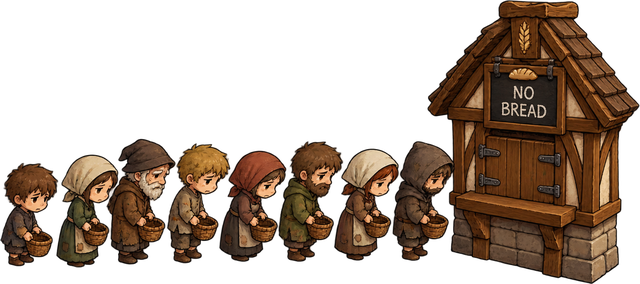
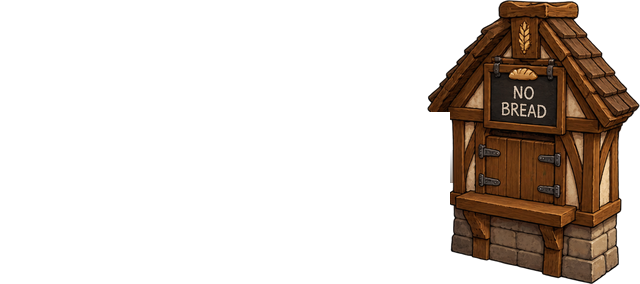
The bread queue and the street dancers are townsfolk now, and the loading screen is the storm-and-wave painting in 4K
- breadline.png keeps only the shuttered hatch and its NO BREAD board; five different townsfolk queue at it (eight when
  the granary is empty), facing the hatch and grumbling now and then
- music.png keeps only the hat and its coins; four different townsfolk dance round it, each turning, hopping and rocking
  in their own time, while the notes still rise
- the loading screen is the Steam page background, cut from its 5504x3072 master: 3840x2160 on every landscape shape,
  a 9:16 cut round the wave on portrait screens with the bar down on the rocks; no frame; status-bar tint #636a72
- the sign-in, the hero list and a new hero keep their tavern backdrop

Changed region(s): [[0.0, 0.4789, 0.7188, 0.9577], [0.6562, 0.3944, 0.7188, 0.4225]]

diff --git a/game.js b/game.js
@@ -50,7 +50,7 @@ const FG_ART={
 const fgArtFor=clsId=>{const a=FG_ART[clsId];return (a&&a.img.complete&&a.img.naturalWidth)?a:null;};
 /* 🏙 city art. CITY_HOUSES is indexed by a house's seed, so a terrace picks its faces
    deterministically and the same street looks the same every visit. */
-const CITY_ART_V=11; /* bump when a city asset is redrawn - the filenames stay put while the pictures
+const CITY_ART_V=12; /* bump when a city asset is redrawn - the filenames stay put while the pictures
                        behind them change, so without this a cached wall_gate_v.png survives a hard refresh */
 const cityImg=n=>{if(!cityImgs[n]){cityImgs[n]=new Image();cityImgs[n].src='assets/city/'+n+'.png?v='+CITY_ART_V;}return cityImgs[n];};
 const cityImgs={};
@@ -10144,6 +10144,10 @@ function update(dt){
    const crowd=world.npcs.filter(n=>n.protest),n=crowd[Math.floor(Math.random()*crowd.length)];
    if(n)floatAt(n.x,n.y-72,PROTEST_CHANTS[Math.floor(Math.random()*PROTEST_CHANTS.length)],'#ffb3a3',true);
   }
+  if(world.npcs&&chance(S.city&&S.city.food&&S.city.food.hunger>0?0.005:0.0025)){ /* 🍞 and the bread queue grumbles */
+   const line=world.npcs.filter(n=>n.queuer),n=line[Math.floor(Math.random()*line.length)];
+   if(n)floatAt(n.x,n.y-66,BREAD_MURMURS[Math.floor(Math.random()*BREAD_MURMURS.length)],'#f0d9a8',false);
+  }
   if(S.city&&S.city.incidents.length&&world.npcs&&chance(0.03)){ /* 🥊 and so does a brawl */
    const ring=world.npcs.filter(n=>n.brawl),n=ring[Math.floor(Math.random()*ring.length)];
    if(n)floatAt(n.x,n.y-58,BRAWL_SHOUTS[Math.floor(Math.random()*BRAWL_SHOUTS.length)],'#ffd0a0',Math.random()<.4);
@@ -12917,21 +12921,24 @@ function drawMercArms(n,body,by,now){   /* in the sellsword's own frame: the art
 }
 function drawNpc(n){
  const now=performance.now();
- const by=n.hop?-Math.abs(Math.sin(now/1000*n.hop.rate+n.hop.phase))*n.hop.h:n.moving?Math.sin(n.walk*7)*1.8:Math.sin(now/600+n.x)*0.8; /* 👑 hop: a townsman bouncing at the coronation */
+ const dz=n.dance,dt=dz&&now/1000*dz.rate+dz.phase;   /* 💃 dancing as the hero dances: a hop, a turn each way, a rock */
+ const fx=dz?(Math.sin(dt*3)>=0?1:-1):n.fx;
+ const by=dz?-Math.abs(Math.sin(dt*9))*6:n.hop?-Math.abs(Math.sin(now/1000*n.hop.rate+n.hop.phase))*n.hop.h:n.moving?Math.sin(n.walk*7)*1.8:Math.sin(now/600+n.x)*0.8; /* 👑 hop: a townsman bouncing at the coronation */
  ctx.save();ctx.translate(n.x,n.y);
  if(n.fade!=null)ctx.globalAlpha*=n.fade;   /* 🩹 a hurt guard fading out as he is helped away */
  const pImg=n.art||npcSkinImage(n.skin)||(n.female?npcFemaleImg:npcMaleImg); /* Sebbe's own art, a named skin, or the two originals */
  const body=characterBodyFrame(pImg,n.sit?36:44,n.sit?9:7),size=n.big||1;   /* 🪙 a sitter (the pardoned King) is drawn whole - feet in the art - and lower */
  const boots=characterBootFrame(npcSkinRace(n.skin),!!n.female,bootImg,7);
  ctx.save();ctx.scale(size,size);
+ if(dz)ctx.rotate(Math.sin(dt*6)*.25);
  if(n.hang){const top=body?body.headY-4:-40;ctx.translate(0,top);ctx.rotate(Math.sin(now/1000*1.6+n.hang)*.06);ctx.translate(0,-top);}   /* ⚖ swinging from the rope, about the head */
  ctx.fillStyle='rgba(0,0,0,0.25)';ctx.beginPath();ctx.ellipse(0,body?(n.sit?9:boots.groundY):8,n.sit?16:13,5.5,0,0,7);ctx.fill();
- if(!n.hang){const gy=body?(n.sit?9:boots.groundY):8,tall=n.sit?30:52;if(!(body&&!n.sit&&!n.down&&sunFigureShadow(pImg,body,gy,n.fx>0)))sunPersonShadow(gy,tall);lightPersonShadow(n.x,n.y,gy,tall*size,size);}   /* ☀🏮 their own shape */
- if(n.down){const gy=body?boots.groundY:8;ctx.translate(0,gy);ctx.rotate((n.fx>0?-1:1)*1.45*n.down);ctx.translate(0,-gy);}   /* 🩹 knocked down by the Forsaken: laid out on the stones, about his feet */
+ if(!n.hang){const gy=body?(n.sit?9:boots.groundY):8,tall=n.sit?30:52;if(!(body&&!n.sit&&!n.down&&sunFigureShadow(pImg,body,gy,fx>0)))sunPersonShadow(gy,tall);lightPersonShadow(n.x,n.y,gy,tall*size,size);}   /* ☀🏮 their own shape */
+ if(n.down){const gy=body?boots.groundY:8;ctx.translate(0,gy);ctx.rotate((fx>0?-1:1)*1.45*n.down);ctx.translate(0,-gy);}   /* 🩹 knocked down by the Forsaken: laid out on the stones, about his feet */
  if(body){
   if(!n.sit)bootFeet({...boots,moving:n.moving,walk:n.walk*1.8,bob:by});
   ctx.save();
-  if(n.fx>0)ctx.scale(-1,1); /* art faces left natively - mirror when walking right */
+  if(fx>0)ctx.scale(-1,1); /* art faces left natively - mirror when walking right */
   ctx.rotate(by*0.02);
   const part=!n.art&&npcPart(n.skin);
   if(part){
@@ -12951,7 +12958,7 @@ function drawNpc(n){
  ctx.restore();
  if(n.hurtMark){const hy=((body?body.headY:-37)-12+by)*size;ctx.fillStyle='rgba(255,255,255,.92)';ctx.fillRect(-7,hy-7,14,14);ctx.fillStyle='#d83a32';ctx.fillRect(-2,hy-5.5,4,11);ctx.fillRect(-5.5,hy-2,11,4);}   /* 🩹 hurt, off to be patched up */
  if(n.protest&&n.protest.sign)drawProtestSign(n,body,by,size);
- if(n.guildRole!=='member'&&!n.protest&&!n.brawl&&!n.prisoner&&!n.held&&!n.feaster&&!(n.nameNear&&(!hero||Math.hypot(hero.x-n.x,hero.y-n.y)>n.nameNear))){   /* ⚔ a sellsword's name only when you are close */ /* ✊ a marching block wears its placards, not two dozen overlapping names; ⛓ a prisoner's name hangs on his grille */
+ if(n.guildRole!=='member'&&!n.protest&&!n.brawl&&!n.prisoner&&!n.held&&!n.feaster&&!n.queuer&&!n.dancer&&!(n.nameNear&&(!hero||Math.hypot(hero.x-n.x,hero.y-n.y)>n.nameNear))){   /* ⚔ a sellsword's name only when you are close */ /* ✊ a marching block wears its placards, not two dozen overlapping names; ⛓ a prisoner's name hangs on his grille */
   const ny=((body?body.headY:-37)-3+by-(body&&MERC_ARMED.has(n.skin)?17:0)-(n.nameLift||0))*size;   /* ⚔ over a sellsword's pike blade, not through it; 🍺 a line up when a neighbour's name is in the way */
   ctx.font='700 '+(n.game?11:10)+'px '+getComputedStyle(document.body).fontFamily;ctx.textAlign='center';
   ctx.fillStyle='rgba(0,0,0,0.6)';ctx.fillText(n.name,1,ny+1);
@@ -18539,7 +18546,7 @@ function cityHudLine(){
   +(c.food.hunger>0?' · 🌾 THE CITY IS HUNGRY':CityEconomy.foodView(c,cityContext()).low?' · 🌾 bread for '+(n=>n+' more close'+(n===1?'':'s'))(CityEconomy.foodView(c,cityContext()).closes):'')+(c.unattended>=CityEconomy.REMIND_AFTER?' · 🔔 you have ledgers to attend':'')+(trouble.length?' · '+trouble.join(' · '):'')+(c.petition?' · 📜 a petition waits at the council table':'')+(c.king.demand?' · 👑 the King wants something':'')+' · the ledger closes in '+cityClockLeft();
 }
 /* a commoner who can be pulled off his stroll for a march or a fight, and put back afterwards */
-const cityCommoner=n=>!n.patrol&&!n.game&&!n.hidden&&!n.feaster&&!/^noble_/.test(n.skin||'');
+const cityCommoner=n=>!n.patrol&&!n.game&&!n.hidden&&!n.feaster&&!n.queuer&&!n.dancer&&!/^noble_/.test(n.skin||'');
 function citySendHome(n){
  n.pts=n.homePts||n.pts;n.i=Math.min(n.homeI||0,n.pts.length-1);n.protest=null;n.brawl=null;
  n.x=n.pts[n.i].x;n.y=n.pts[n.i].y;n.pauseT=Math.random()*2;n.moving=false;
@@ -18622,7 +18629,7 @@ const VELVET_GIRLS=[['Scarlett','courtesan_blonde'],['Vivienne','courtesan_dark'
 function cityApplyPeople(){
  if(!world||!zoneOf().city||!world.npcs||!S.city)return;
  const c=S.city,jailed=new Set(c.jail.map(p=>p.name));
- const folk=world.npcs.filter(n=>!n.patrol&&!n.game&&!n.newcomer&&!n.recruit&&!n.velvet&&!n.feaster);
+ const folk=world.npcs.filter(n=>!n.patrol&&!n.game&&!n.newcomer&&!n.recruit&&!n.velvet&&!n.feaster&&!n.queuer&&!n.dancer);
  const crowd=Math.max(4,Math.round(c.pop*folk.length/CityEconomy.POPULATION));   /* one walker for every five souls or so: nobody draws five thousand */
  const gone=Math.max(0,folk.length-crowd);
  folk.forEach((n,i)=>{n.hidden=i>=folk.length-gone||jailed.has(n.name);});
@@ -18696,7 +18703,7 @@ function cityApplyWorks(){
   const def=CityEconomy.WORKS.find(w=>w.id===a.id);
   a.house.work={id:a.id,status:a.status,left:a.left,sign:def.sign,icon:def.icon,cat:def.cat};
  }
- cityApplyFeast();
+ cityApplyFeast();cityApplyBreadline();cityApplyDancers();
 }
 /* 🍖 A feast on the great square (2026-09-29): the long table is laid with food and nobody painted at it; the townsfolk
    stand round it, five a side facing the table, hopping for joy each in their own time. They come and go with the tables
@@ -18714,6 +18721,44 @@ function cityApplyFeast(){
     race:costume?costume[1]:'human',cls:costume?costume[3]:'warrior',female:npcSkinFemale(skin),pts:[{x,y}],i:0,dir:1,x,y,speed:0,walk:n*.7,
     fx:-side,pauseT:1e9,moving:false,feaster:true,hop:{h:7+(n%3)*3,rate:4.1+(n%4)*.55,phase:n*1.7}});
   }
+ });
+}
+/* 🍞 The bread queue (2026-10-13: "ta bort människorna i den bilden ha kvar no bread, och lägg till så det är NPC olika istället i
+   kön"): the painting is the bakers' hatch alone, NO BREAD on its board; the queue at it is townsfolk, no two dressed alike, in
+   line toward the hatch where the painted one stood - five while bread is short, eight once the granary is empty - each
+   shifting on their feet in their own time, and now and then one of them grumbles (BREAD_MURMURS). 🎻 The street music
+   (2026-10-13: "gör så det är NPC som står och dansar i stället"): the painted band is gone - the hat for coins stays and the
+   notes still rise over it - and four townsfolk dance round it, as the hero dances. Like the feasters they are not the walking
+   townsfolk: nobody counts them, marches them off or jails them, and they come and go with their props. */
+const QUEUE_SKINS=['market_woman','male','dockhand','fishwife','monk','female','foundry_worker','sailor','blacksmith','merchant'];
+const DANCE_SKINS=['female','sailor','baker','male','market_woman','merchant','fishwife','dockhand'];
+const BREAD_MURMURS=['Any bread today?','Since before dawn...','My children are hungry.','Open the hatch!','Not a crust left?','They say the granary is empty.','Bread!'];
+const QUEUE_STEP=27,QUEUE_HEAD=50,QUEUE_DY=-12;   /* the first at the hatch's counter, the rest behind at this spacing; feet a little behind the booth's front */
+const DANCE_SPOTS=[[-58,-2],[-22,-15],[22,-15],[58,-2]];   /* round the hat and a little behind it, where the band stood */
+function streetFolk(skin,n,x,y,extra){   /* one of the standing townsfolk the square's props bring */
+ const costume=npcSkinCostume(skin);
+ return {name:NEWCOMER_FIRST[(n*5+3)%NEWCOMER_FIRST.length]+' '+NEWCOMER_LAST[(n*11+1)%NEWCOMER_LAST.length],skin,
+  race:costume?costume[1]:'human',cls:costume?costume[3]:'warrior',female:npcSkinFemale(skin),pts:[{x,y}],i:0,dir:1,x,y,speed:0,walk:n*.7,
+  pauseT:1e9,moving:false,...extra};
+}
+function cityApplyBreadline(){
+ if(!world||!world.npcs)return;
+ world.npcs=world.npcs.filter(n=>!n.queuer);
+ (world.solids||[]).filter(s2=>s2.type==='citywork'&&s2.kind==='breadline').forEach((b,bi)=>{
+  const many=b.long?8:5,first=((b.seed|0)+bi*3)%QUEUE_SKINS.length;
+  for(let k=0;k<many;k++){
+   const x=b.x+QUEUE_HEAD-k*QUEUE_STEP+((k*7)%5-2),y=b.y+QUEUE_DY+((k*3)%4-1.5);   /* a queue, not a parade: never quite in line */
+   world.npcs.push(streetFolk(QUEUE_SKINS[(first+k)%QUEUE_SKINS.length],bi*10+k+40,x,y,{fx:1,queuer:true}));   /* facing the hatch */
+  }
+ });
+}
+function cityApplyDancers(){
+ if(!world||!world.npcs)return;
+ world.npcs=world.npcs.filter(n=>!n.dancer);
+ (world.solids||[]).filter(s2=>s2.type==='citywork'&&s2.kind==='music').forEach((m,mi)=>{
+  const first=((m.seed|0)+mi*2)%DANCE_SKINS.length;
+  DANCE_SPOTS.forEach(([dx,dy],k)=>world.npcs.push(streetFolk(DANCE_SKINS[(first+k)%DANCE_SKINS.length],mi*10+k+70,m.x+dx,m.y+dy,
+   {fx:dx<0?1:-1,dancer:true,dance:{rate:.86+((k*37+mi*11)%29)/100,phase:k*1.9+mi}})));   /* each in their own time */
  });
 }
 /* 📣 The crier shouts what the last close wrote, and what a steward should know, a line at a time */
@@ -22598,7 +22643,7 @@ const BOOT_MIN=5000,BOOT_MAX=13000;
    outside the page so no background image can reach them. Keep the tint matched to the
    top edge of whatever artwork is on screen (values sampled from the images) so the
    clock and battery read as sitting on the same backdrop. */
-const THEME_BOOT='#1a1007',THEME_MENU='#401a11',THEME_GAME='#342011';   /* boot: the dark bronze around the tall riptide art */
+const THEME_BOOT='#636a72',THEME_MENU='#401a11',THEME_GAME='#342011';   /* boot: the storm clouds along the top of the wave picture */
 /* Installed on the home screen the page owns the whole screen, status bar included, and the
    artwork is what should show there. A theme-color - from this meta OR from the manifest -
    makes iOS paint a solid band over it instead, so drop the meta entirely in that mode. */
@@ -22623,13 +22668,7 @@ function bootPreload(){
  /* UI frames and the login art */
  /* only the variant this screen shows - the same URLs and media queries as the #boot rules in style.css */
  const mq=q=>matchMedia(q).matches;
- if(mq('(max-aspect-ratio:51/100)'))push('assets/ui/loading_phone_tall.jpg?v=3');
- else if(mq('(max-aspect-ratio:1/1)'))push('assets/ui/loading_phone.jpg?v=4');
- else if(mq('(max-aspect-ratio:87/50)')||mq('(min-aspect-ratio:91/50)')){   /* not 16:9: wider/taller art + the frame on top */
-  push(mq('(max-aspect-ratio:87/50)')?'assets/ui/loading_desktop_tall.jpg?v=2':
-   mq('(min-aspect-ratio:49/20)')?'assets/ui/loading_desktop_ultra.jpg?v=2':'assets/ui/loading_desktop_wide.jpg?v=2');
-  ['loading_frame','loading_medallion_top','loading_medallion_bottom'].forEach(n=>push('assets/ui/'+n+'.png?v=1'));
- }else push('assets/ui/loading_desktop.jpg?v=4');
+ push(mq('(max-aspect-ratio:1/1)')?'assets/ui/loading_tide_phone.jpg?v=1':'assets/ui/loading_tide.jpg?v=1');   /* 🌊 the cut for portrait screens, else the 4K picture */
  ['bakground_signin','ui_background','ui_allt','ui_ram','ui_buttons','ui_buttonrak','ui_buttonsstone','ui_buttonshardcore']
   .forEach(n=>push('assets/ui/'+n+'.png'));
  /* painted icons - spells, potions, loot */

diff --git a/style.css b/style.css
@@ -946,12 +946,14 @@
 .gvbbigcard .gl{font-size:10px;font-weight:800}
 .gvbbigmark{position:absolute;left:50%;top:0;bottom:0;width:2px;background:#ffd76a;box-shadow:0 0 10px #ffd76a}
 /* ⏳ boot screen - holds the door shut until the art is in memory */
-/* the framed painting is the whole composition, so it is never cropped: a 16:9 screen (within 2%) gets the painting
-   itself edge to edge, every other landscape shape the rules after .boottip, portrait phones the tall one */
+/* 🌊 the storm-and-wave painting (2026-10-13, the Steam page background's own 4K master: "byta ut loading screenen till
+   denna bild ... gör den till 4k"). It has no frame and no crest to keep whole, so every landscape shape simply covers
+   itself with it - a little off the sides on 16:10 and 4:3, off the sky and the rocks on ultrawides. Portrait screens
+   get their own 9:16 cut round the wave's curl. bootPreload() in game.js loads the one this screen shows (same query). */
 #boot{position:fixed;inset:0;z-index:9999;display:flex;align-items:center;justify-content:center;
-  background:url('assets/ui/loading_desktop.jpg?v=4') center/100% 100% no-repeat #0b0906;transition:opacity .5s ease}
+  background:url('assets/ui/loading_tide.jpg?v=1') center/cover no-repeat #545e67;transition:opacity .5s ease}
 #boot.gone{opacity:0;pointer-events:none}
-.bootinner{position:relative;text-align:center;width:min(60%,430px);margin-top:42vh} /* well below the crest, low on the parchment */
+.bootinner{position:relative;text-align:center;width:min(60%,430px);margin-top:42vh} /* low, on the misty sea */
 .bootbar{height:13px;border-radius:8px;border:1px solid #1f4a78;background:rgba(10,28,52,.6);overflow:hidden;
   box-shadow:inset 0 1px 4px rgba(0,0,0,.5),0 1px 0 rgba(190,225,255,.22)}
 .bootbar i{display:block;height:100%;width:0%;border-radius:7px;   /* blue, to match the riptide art (2026-10-02) */
@@ -959,53 +961,16 @@
   box-shadow:0 0 10px rgba(70,150,255,.65);transition:width .25s ease}
 .boottip{margin-top:11px;font-family:var(--display);font-size:14px;color:#fff;
   text-shadow:0 0 8px #000,0 0 3px #000,0 2px 4px rgba(0,0,0,.9);min-height:1.3em;letter-spacing:.4px}
-/* 💻 desktops that are not 16:9 (16:10, 3:2, 4:3, ultrawide, a window, a browser tab): the same painting without its
-   frame, painted out wider (21:9, 4:1) or taller (4:3) and laid so the 16:9 picture always shows whole and centred; the
-   frame is drawn on top at the screen's own edges - corners fixed, rune bands tiled - with the two medallions centred.
-   U = the 16:9 picture's height on screen = min(100vh,56.25vw); the frame art is 4K-sized, so U = 2160 of its px.
-   bootPreload() in game.js uses the same queries. */
-@media (min-aspect-ratio:1001/1000) and (max-aspect-ratio:87/50),(min-aspect-ratio:91/50){
-  #boot{border:0 solid transparent;
-    border-image:url('assets/ui/loading_frame.png?v=1') 360/calc(min(100vh,56.25vw)*.16667) round}
-  #boot::before,#boot::after{content:'';position:absolute;left:50%;transform:translateX(-50%);pointer-events:none;
-    width:calc(min(100vh,56.25vw)*.2037);height:calc(min(100vh,56.25vw)*.06204);background:center/100% 100% no-repeat}
-  #boot::before{top:0;background-image:url('assets/ui/loading_medallion_top.png?v=1')}
-  #boot::after{bottom:0;background-image:url('assets/ui/loading_medallion_bottom.png?v=1')}
-}
-@media (min-aspect-ratio:1001/1000) and (max-aspect-ratio:87/50){
-  #boot{background:url('assets/ui/loading_desktop_tall.jpg?v=2') center/max(100vw,133.334vh) auto no-repeat #0b0906}
-  .bootinner{margin-top:min(42vh,23.625vw)}
-}
-@media (min-aspect-ratio:91/50){
-  #boot{background:url('assets/ui/loading_desktop_wide.jpg?v=2') center/auto max(100vh,42.857vw) no-repeat #0b0906}
-}
-@media (min-aspect-ratio:49/20){   /* past 21:9 (browser tabs on ultrawides, 32:9): the 4:1 painting */
-  #boot{background:url('assets/ui/loading_desktop_ultra.jpg?v=2') center/auto max(100vh,25vw) no-repeat #0b0906}
-}
-/* 📱 portrait: the riptide art painted tall (9:16, 2026-10-02; black-and-parchment since 2026-10-07). On phones it reaches the glass at every edge (the two
-   rules after this block); tablets still see it whole on the frame's dark bronze. The bar rides the calm sea at 63%.
+/* 📱 portrait: the 9:16 cut round the wave, edge to edge, the bar down on the rocks (~83%) so the curl stays clear.
    100dvh keeps the boot screen covering the glass while iOS Safari's chrome slides in and out */
 @media (max-aspect-ratio:1/1){
-  #boot{background-image:url('assets/ui/loading_phone.jpg?v=4');background-color:#1a1007;align-items:center;padding-bottom:0;
-    height:100dvh;background-size:contain;background-position:center}
-  .bootinner{margin-top:calc(26vh + 29px);margin-top:calc(26dvh + 29px);width:min(82%,420px)}
+  #boot{background-image:url('assets/ui/loading_tide_phone.jpg?v=1');background-color:#636a72;padding-bottom:0;height:100dvh}
+  .bootinner{margin-top:calc(68vh + 29px);margin-top:calc(68dvh + 29px);width:min(82%,420px)}
   /* same trick for the tavern art behind login / select / create */
   html:has(#login.open),html:has(#select.open),html:has(#create.open),
   body:has(#login.open),body:has(#select.open),body:has(#create.open),
   body:has(#login.open) #app,body:has(#select.open) #app,body:has(#create.open) #app,
   #select,#login,#create{background-size:auto 112%;background-position:center bottom}
-}
-/* phones in a browser tab: the 9:16 art stretched to the glass - a few % in most browsers, ~18% on the smallest iPhones */
-@media (max-aspect-ratio:65/100),(max-width:540px) and (max-aspect-ratio:1/1){
-  #boot{background-size:100% 100%}
-}
-/* installed and tall phones: the same painting with 692 more rows of its own open sea, laid as three slices - the top
-   1592 rows and the bottom 990 keep their shape at 100vw (rows/1520), only the open sea between them flexes to the
-   height, so nothing is cropped or squashed. The bar sits mid-sea. bootPreload() in game.js uses the same query. */
-@media (max-aspect-ratio:51/100){
-  #boot{background:#9a7758;border:0 solid transparent;
-    border-image:url('assets/ui/loading_phone_tall.jpg?v=3') 1592 0 990 0 fill/104.7368vw 0 65.1316vw 0 stretch}
-  .bootinner{margin-top:39.6vw}
 }
 /* ❄ Ice Armor talent tree */
 .talentbox{background:linear-gradient(180deg,#101a2a,#080d16);border:2px solid #5b9bd5;border-radius:18px;padding:20px 24px 18px;max-width:560px;width:94%;max-height:94%;overflow-y:auto;text-align:center;box-shadow:0 14px 50px rgba(0,0,0,.7),0 0 30px rgba(91,155,213,.22)}

diff --git a/assets/city/city-works.js b/assets/city/city-works.js
@@ -195,11 +195,7 @@
   for(let i=0;i<n;i++)if(Math.sin(ring(i).a)>=0){ribbon(i);dancer(i);}
  }
  function music(g,s,time){
-  const bow=Math.sin(time*6)*5,beat=Math.abs(Math.sin(time*4));
-  fig(g,-16,0,{coat:'#6a3f86',hat:'#2b2622'});rect(g,-13,-31,14,5,'#8a5a2b','#2a1a0c',1);        /* the fiddle, and the bow across it */
-  g.save();g.strokeStyle='#f0e2c4';g.lineWidth=1.4;g.beginPath();g.moveTo(-14+bow,-36);g.lineTo(2+bow,-24);g.stroke();g.restore();
-  fig(g,18,2,{coat:'#3f7d48',arm:.4+beat*.9});ellipse(g,27,-16,9,5,'#e9dcb8','#4a2d17',1.5);rect(g,18,-16,18,12,'#a8322f','#2a1a0c',1);
-  fig(g,50,-4,{coat:'#b9822a',sit:true});rect(g,55,-40,3,22,'#5a3a1e');                            /* and a piper on a stool */
+  /* the hat for coins and the tune in the air - the dancers round it are townsfolk (game.js cityApplyDancers, 2026-10-13) */
   for(let i=0;i<3;i++){const p=(time*.45+i/3)%1;label(g,i%2?'♪':'♫',-6+i*26+Math.sin(time*2+i)*6,-54-p*44,'rgba(255,236,170,'+(1-p).toFixed(3)+')',14);}
   rect(g,-4,6,14,5,'#2b2622');ellipse(g,3,6,5,2,'#e5c05a');                                          /* the hat, and what is in it */
  }
@@ -224,11 +220,8 @@
   board(g,s.stripe?'THE GREAT FAIR':'WONDERS · ONE PENNY',0,-62,84,'#ffd27a');
  }
  function breadline(g,s,time){
-  /* a shuttered bakers' hatch, and the queue that has been at it since before dawn */
+  /* a shuttered bakers' hatch - the queue at it is townsfolk (game.js cityApplyBreadline, 2026-10-13) */
   rect(g,56,-52,46,52,'#6d4a28','#2a1a0c',2);rect(g,62,-44,34,20,'#3a2410','#15100b',1.5);g.save();g.font='700 7px Georgia, serif';g.textAlign='center';g.fillStyle='#e6dbc9';g.fillText('NO BREAD',79,-12);g.restore();
-  const n=s.long?9:5;
-  for(let i=0;i<n;i++){const sh=Math.max(0,Math.sin(time*.8-i*.7))*3;fig(g,40-i*19+sh,(i%2)*5,{coat:COATS[(i*2+1)%COATS.length],step:sh*.6,hat:i%3===0?'#3a2a1a':undefined});}
-  if(s.long)label(g,'“Bread!”',-60+Math.sin(time*1.4)*4,-56,'#ff8a7a',11);
  }
  function beggar(g,s,time){
   g.save();g.scale(s.face||1,1);

diff --git a/index.html b/index.html
@@ -3,7 +3,7 @@
 <head>
 <meta charset="UTF-8">
 <meta name="viewport" content="width=device-width, initial-scale=1.0, user-scalable=no, viewport-fit=cover">
-<meta name="theme-color" content="#1a1007">
+<meta name="theme-color" content="#636a72">
 <!-- Added to the Home Screen this runs standalone: the page then owns the whole screen and
      the artwork really does reach under the clock and battery. In a Safari tab the status
      bar belongs to the browser, so only theme-color above can tint it. -->
@@ -18,7 +18,7 @@
 <link rel="apple-touch-icon" href="favicon_256.png">
 <!-- ?v= is not decoration: without it iOS Safari serves a cached stylesheet for days, so two
      phones end up running two different builds of the layout. Bump on every visual change. -->
-<link rel="stylesheet" href="style.css?v=76">
+<link rel="stylesheet" href="style.css?v=77">
 <link rel="stylesheet" href="assets/tides/ui.css?v=11">
 <link rel="stylesheet" href="assets/ui/crafting.css?v=8">
 <link rel="stylesheet" href="assets/city/ledger.css?v=14">
@@ -1010,7 +1010,7 @@
 <script src="assets/city/economy.js?v=29"></script>
 <script src="assets/city/scenery-effects.js?v=6"></script>
 <script src="assets/city/traffic-animation.js?v=3"></script>
-<script src="assets/city/city-works.js?v=16"></script>
+<script src="assets/city/city-works.js?v=17"></script>
 <script src="assets/city/throne-world.js?v=22"></script>
 <script src="assets/city/harbor-world.js?v=9"></script>
 <script src="assets/city/town-world.js?v=11"></script>
@@ -1062,7 +1062,7 @@
 <script src="assets/tree/skill-tree.js?v=1"></script>
 <script src="assets/tree/tree-ui.js?v=1"></script>
 <script src="assets/casino/casino-fx.js?v=2"></script>
-<script src="game.js?v=246"></script>
+<script src="game.js?v=247"></script>
 <script src="assets/ui/crafting.js?v=4"></script>
 </body>
 </html>
